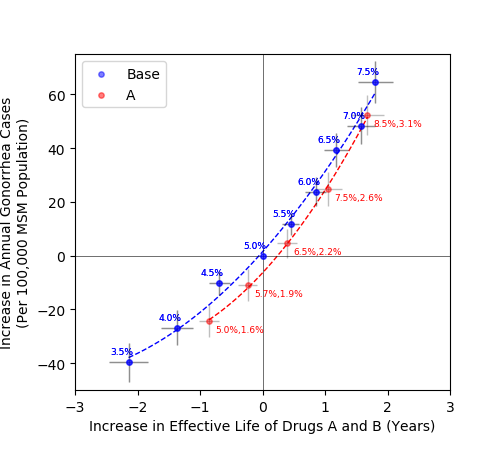
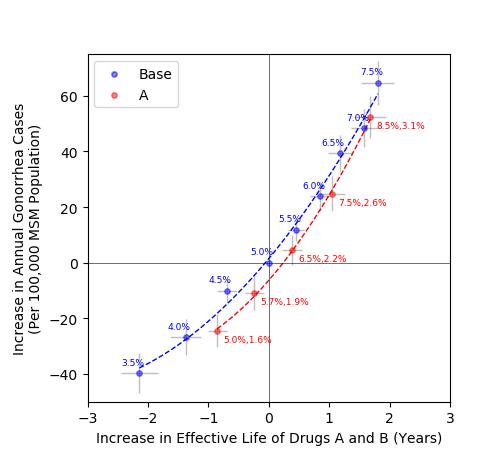
starting multi figures

Changed region(s): [[0.0, 0.122, 0.9, 0.976], [0.9, 0.8845, 0.93, 0.915]]

diff --git a/apace/ScenariosClasses.py b/apace/ScenariosClasses.py
@@ -452,16 +452,14 @@ def populate_series(series_list,
 
         ser.ifPopulated = True
 
-def plot_series(series, x_label, y_label, file_name,
-                show_only_on_frontier=False,
-                x_range=None,
-                y_range=None,
-                show_error_bars=False,
-                wtp_multiplier=1):
 
-    # fig, ax = plt.subplots(1, 1, figsize=(6, 5))
-    fig = plt.figure(figsize=(5, 4.6))
-    ax = fig.add_subplot(111)
+def plot_sub_fig(ax, series,
+                 file_name,
+                 show_only_on_frontier=False,
+                 x_range=None,
+                 y_range=None,
+                 show_error_bars=False,
+                 wtp_multiplier=1):
 
     for i, ser in enumerate(series):
 
@@ -492,7 +490,7 @@ def plot_series(series, x_label, y_label, file_name,
 
             # scatter plot for all points
             ax.scatter(ser.xValues, ser.yValues, color=ser.color, alpha=0.5, zorder=10, s=15, label=ser.name)
-            #ax.scatter(ser.allDeltaEffects, ser.allDeltaCosts, color=ser.color, alpha=.5, zorder=10, s=5, label=ser.name)
+            # ax.scatter(ser.allDeltaEffects, ser.allDeltaCosts, color=ser.color, alpha=.5, zorder=10, s=5, label=ser.name)
 
             # error bars
             if show_error_bars:
@@ -512,13 +510,13 @@ def plot_series(series, x_label, y_label, file_name,
                     )
 
             # fit a quadratic function to the curve.
-            y = np.array(ser.yValues) #allDeltaCosts)
-            x = np.array(ser.xValues) #allDeltaEffects)
+            y = np.array(ser.yValues)  # allDeltaCosts)
+            x = np.array(ser.xValues)  # allDeltaEffects)
             quad_reg = Reg.SingleVarRegression(x, y, degree=2)
 
             # print derivatives at
             print(file_name, ' | ', ser.name)
-            print('WTP at min dCost', wtp_multiplier * quad_reg.get_derivative(x=ser.xValues[len(ser.xValues)-1]))
+            print('WTP at min dCost', wtp_multiplier * quad_reg.get_derivative(x=ser.xValues[len(ser.xValues) - 1]))
             print('WTP at dCost = 0:', wtp_multiplier * quad_reg.get_derivative(x=0))
             print('WTP at max dCost:', wtp_multiplier * quad_reg.get_derivative(x=ser.xValues[0]))
 
@@ -535,10 +533,8 @@ def plot_series(series, x_label, y_label, file_name,
                 ax.plot(xs, iv_l, '-', color=ser.color, linewidth=0.5, alpha=0.1)
                 ax.fill_between(xs, iv_l, iv_u, linewidth=1, color=ser.color, alpha=0.05)
 
-    # labels and legend
-    ax.set_xlabel(x_label)
-    ax.set_ylabel(y_label)
-    plt.legend(loc=2)
+
+    ax.legend(loc=2)
 
     # x and y ranges
     if x_range is not None:
@@ -546,12 +542,39 @@ def plot_series(series, x_label, y_label, file_name,
     if y_range is not None:
         ax.set_ylim(y_range)
 
-    #plt.tight_layout()
-    fig.subplots_adjust(bottom=0.15, left=0.15)
-
     # origin
     ax.axvline(x=0, linestyle='-', color='black', linewidth=0.4)
     ax.axhline(y=0, linestyle='-', color='black', linewidth=0.4)
 
-    #fig.savefig('figures/' + file_name, dpm=300) # read more about 'bbox_inches = "tight"'
+
+def single_plot_series(series, x_label, y_label, file_name,
+                       show_only_on_frontier=False,
+                       x_range=None,
+                       y_range=None,
+                       show_error_bars=False,
+                       wtp_multiplier=1):
+
+    fig = plt.figure(figsize=(5, 4.6))
+    ax = fig.add_subplot(111)
+
+    plot_sub_fig(ax=ax, series=series,
+                 file_name=file_name,
+                 show_only_on_frontier=show_only_on_frontier,
+                 x_range=x_range,
+                 y_range=y_range,
+                 show_error_bars=show_error_bars,
+                 wtp_multiplier=wtp_multiplier)
+
+    # labels and legend
+    ax.set_xlabel(x_label)
+    ax.set_ylabel(y_label)
+
+    #plt.tight_layout()
+    fig.subplots_adjust(bottom=0.125, left=0.175)
+
+    fig.savefig('figures/' + file_name, dpm=300) # read more about 'bbox_inches = "tight"'
     fig.show()
+
+
+def multi_plot_series():
+    pass

diff --git a/gonorrhea/SADisplaySeries.py b/gonorrhea/SADisplaySeries.py
@@ -28,16 +28,16 @@ def plot_series(list_series,
                         switch_cost_effect_on_figure=switch_cost_effect_on_figure)
 
     # plot
-    Cls.plot_series(series=list_series,
-                    x_label=labels[0],
-                    y_label=labels[1],
-                    file_name=file_name,
-                    show_only_on_frontier=False,
-                    x_range=Set.X_RANGE,
-                    y_range=Set.Y_RANGE,
-                    show_error_bars=True,
-                    wtp_multiplier=wtp_multiplier
-                    )
+    Cls.single_plot_series(series=list_series,
+                           x_label=labels[0],
+                           y_label=labels[1],
+                           file_name=file_name,
+                           show_only_on_frontier=False,
+                           x_range=Set.X_RANGE,
+                           y_range=Set.Y_RANGE,
+                           show_error_bars=True,
+                           wtp_multiplier=wtp_multiplier
+                           )
 
 
 # change this to false to show M used
